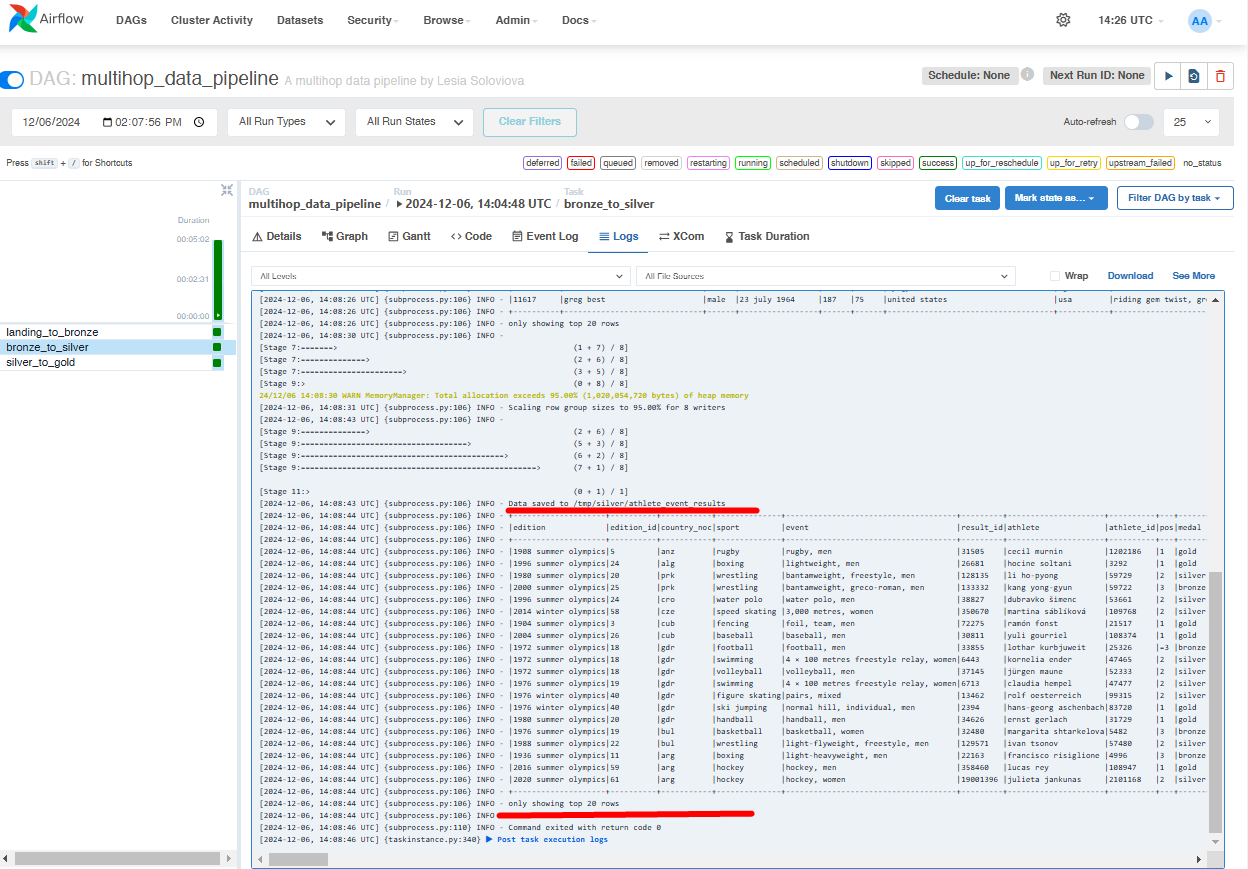
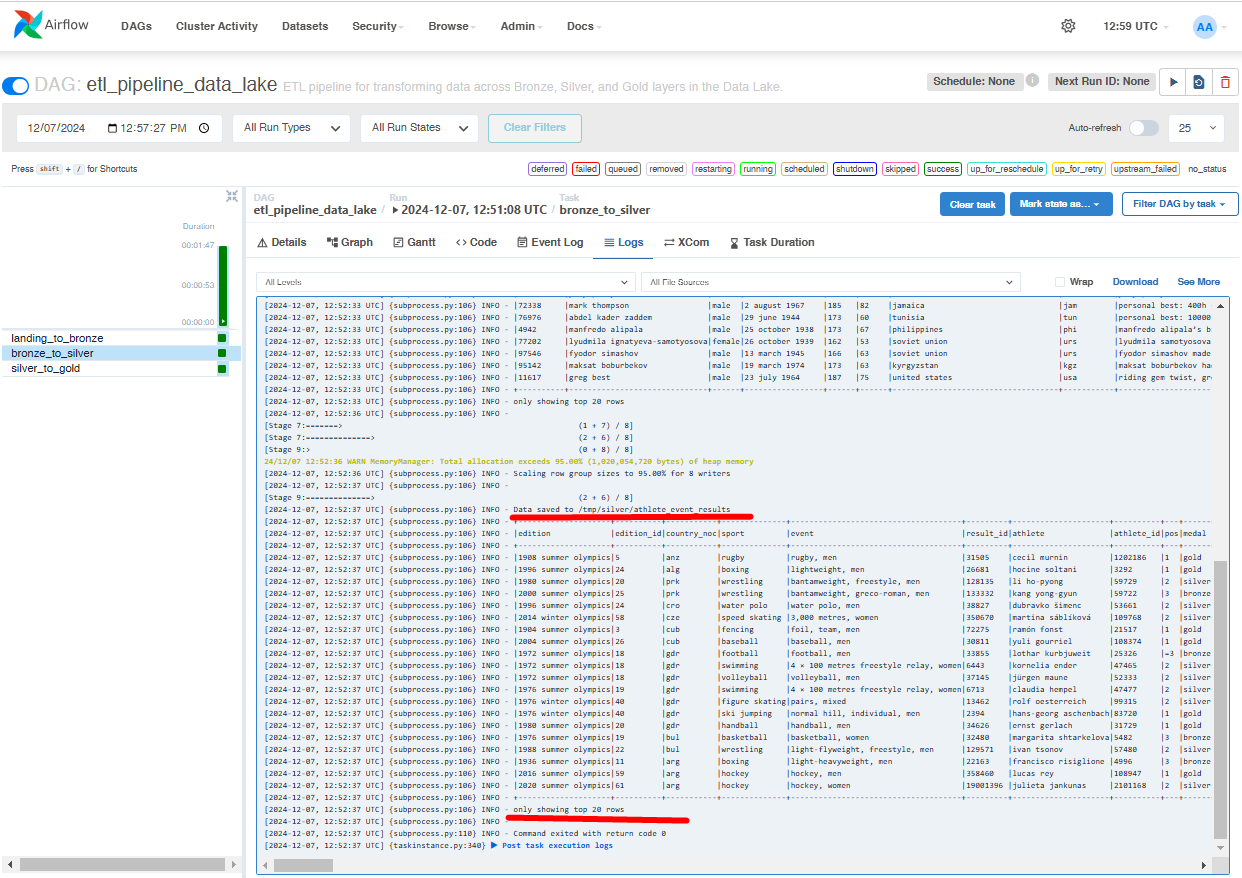
add comments and description to the task 2 and add TASK RESULTS into README.md

Changed region(s): [[0.0, 0.0, 1.0, 1.0], [0.0, 0.1864, 0.1224, 0.2175]]

diff --git a/dags/project_solution.py b/dags/project_solution.py
@@ -6,40 +6,63 @@ import os
 # Визначення базового шляху до проекту (вказано в docker-compose.yaml)
 BASE_PATH = os.getenv('BASE_PATH', '/opt/airflow/dags')
 
-# Визначення DAG
+# Опис DAG (Directed Acyclic Graph)
+"""
+Цей DAG визначає багатоступеневий пайплайн для обробки даних у Data Lake.
+
+Кроки пайплайна:
+1. Landing to Bronze: Завантаження та попередня обробка даних.
+2. Bronze to Silver: Очищення та підготовка даних для аналітики.
+3. Silver to Gold: Агрегація та запис кінцевих даних у форматі Gold Layer.
+
+Використовується:
+- `BashOperator` для виконання Python-скриптів на кожному етапі.
+
+"""
+
+# Визначення базових аргументів для DAG
 default_args = {
-    'owner': 'airflow',
-    'start_date': days_ago(1),
+    'owner': 'airflow',  # Власник DAG
+    'start_date': days_ago(1),  # Початок роботи DAG (вчора для зручності тестування)
 }
 
+# Ініціалізація DAG
 dag = DAG(
-    'multihop_data_pipeline',
-    default_args=default_args,
-    description='End-to-End Batch Data Lake by Lesia Soloviova',
-    schedule_interval=None,
-    tags=['lesia_soloviova'],
+    'etl_pipeline_data_lake',  # Ідентифікатор DAG
+    default_args=default_args,  # Базові аргументи
+    description='ETL pipeline for transforming data across Bronze, Silver, and Gold layers in the Data Lake.',  # Опис
+    schedule_interval=None,  # DAG запускається вручну (немає розкладу)
+    tags=['lesia_soloviova'],  # Теги для пошуку
 )
 
 # Завдання для запуску landing_to_bronze.py
 landing_to_bronze = BashOperator(
-    task_id='landing_to_bronze',
-    bash_command=f'python {BASE_PATH}/landing_to_bronze.py',
-    dag=dag,
+    task_id='landing_to_bronze',  # Унікальний ідентифікатор завдання
+    bash_command=f'python {BASE_PATH}/landing_to_bronze.py',  # Команда Bash для виконання
+    dag=dag,  # DAG, до якого належить завдання
 )
 
 # Завдання для запуску bronze_to_silver.py
 bronze_to_silver = BashOperator(
-    task_id='bronze_to_silver',
-    bash_command=f'python {BASE_PATH}/bronze_to_silver.py',
-    dag=dag,
+    task_id='bronze_to_silver',  # Унікальний ідентифікатор завдання
+    bash_command=f'python {BASE_PATH}/bronze_to_silver.py',  # Команда Bash для виконання
+    dag=dag,  # DAG, до якого належить завдання
 )
 
 # Завдання для запуску silver_to_gold.py
 silver_to_gold = BashOperator(
-    task_id='silver_to_gold',
-    bash_command=f'python {BASE_PATH}/silver_to_gold.py',
-    dag=dag,
+    task_id='silver_to_gold',  # Унікальний ідентифікатор завдання
+    bash_command=f'python {BASE_PATH}/silver_to_gold.py',  # Команда Bash для виконання
+    dag=dag,  # DAG, до якого належить завдання
 )
 
-# Визначення послідовності завдань
+# Визначення послідовності виконання завдань
+"""
+landing_to_bronze >> bronze_to_silver >> silver_to_gold
+
+Цей порядок визначає, що:
+1. Спочатку виконується `landing_to_bronze` (завантаження даних у Bronze Layer).
+2. Після цього виконується `bronze_to_silver` (очищення даних у Silver Layer).
+3. Завершальним етапом є `silver_to_gold` (агрегація даних у Gold Layer).
+"""
 landing_to_bronze >> bronze_to_silver >> silver_to_gold

diff --git a/dags/landing_to_bronze.py b/dags/landing_to_bronze.py
@@ -4,37 +4,64 @@ import requests
 
 
 def download_data(file):
+    """
+    Завантажує CSV-файл із вказаного URL-адресу та зберігає його локально.
+
+    Ця функція формує URL-адресу для завантаження файлу, виконує HTTP-запит,
+    і якщо запит успішний (код 200), зберігає файл у поточній директорії.
+
+    Параметри:
+    file (str): Назва файлу без розширення, який потрібно завантажити.
+
+    Повертає:
+    None: Функція зберігає файл локально і не повертає жодного значення.
+
+    Вихід:
+    Якщо завантаження неуспішне, функція завершує виконання з повідомленням про помилку.
+    """
     url = "https://ftp.goit.study/neoversity/"
     downloading_url = url + file + ".csv"
-    print(f"Downloading from {downloading_url}")
-    response = requests.get(downloading_url)
+    print(f"Downloading from {downloading_url}")  # Виведення повідомлення про URL-адресу завантаження
+    response = requests.get(downloading_url)  # Виконання HTTP-запиту
 
-    if response.status_code == 200:
-        with open(file + ".csv", 'wb') as file:
-            file.write(response.content)
-        print(f"File downloaded successfully and saved as {file}")
+    if response.status_code == 200:  # Перевірка успішності запиту
+        with open(file + ".csv", 'wb') as file:  # Відкриття файлу для запису у двійковому режимі
+            file.write(response.content)  # Запис контенту у файл
+        print(f"File downloaded successfully and saved as {file}")  # Повідомлення про успішне завантаження
     else:
-        exit(f"Failed to download the file. Status code: {response.status_code}")
+        exit(f"Failed to download the file. Status code: {response.status_code}")  # Завершення програми у разі помилки
 
 
+# Створення сесії Spark для обробки даних
 spark = SparkSession.builder \
     .appName("LandingToBronze") \
     .getOrCreate()
 
+# Список таблиць, які необхідно обробити
 tables = ["athlete_bio", "athlete_event_results"]
 
+# Обробка кожної таблиці
 for table in tables:
+    # Формуємо локальний шлях для збереження CSV-файлу
     local_path = f"{table}.csv"
+    # Завантаження файлу з сервера
     download_data(table)
 
+    # Читання CSV-файлу у DataFrame Spark
     df = spark.read.csv(local_path, header=True, inferSchema=True)
 
+    # Створення директорії для збереження parquet-файлів
     output_path = f"/tmp/bronze/{table}"
-    os.makedirs(output_path, exist_ok=True)
+    os.makedirs(output_path, exist_ok=True)  # Переконуємось, що директорія існує
+    # Запис DataFrame у форматі parquet з режимом "overwrite"
     df.write.mode("overwrite").parquet(output_path)
 
+    # Повідомлення про успішне збереження
     print(f"Data saved to {output_path}")
-    df = spark.read.parquet(output_path)
-    df.show(truncate=False)
 
+    # Повторне читання parquet-файлу для перевірки даних
+    df = spark.read.parquet(output_path)
+    df.show(truncate=False)  # Виведення вмісту DataFrame без обрізання рядків
+
+# Завершення роботи Spark-сесії
 spark.stop()

diff --git a/dags/bronze_to_silver.py b/dags/bronze_to_silver.py
@@ -3,32 +3,58 @@ from pyspark.sql.functions import col, trim, lower
 from pyspark.sql.types import StringType
 import os
 
+# Створюємо сесію Spark з назвою "BronzeToSilver".
 spark = SparkSession.builder \
     .appName("BronzeToSilver") \
     .getOrCreate()
 
-
 def clean_text(df):
+    """
+    Очищає текстові дані у всіх колонках DataFrame.
+
+    Ця функція перевіряє тип кожної колонки у DataFrame. Якщо тип колонки є StringType,
+    то значення у цій колонці будуть очищені шляхом:
+    - Обрізання зайвих пробілів з початку і кінця рядка.
+    - Переведення тексту у нижній регістр.
+
+    Параметри:
+    df (pyspark.sql.DataFrame): Вхідний DataFrame для очищення.
+
+    Повертає:
+    pyspark.sql.DataFrame: DataFrame з очищеними текстовими колонками.
+
+    """
     for column in df.columns:
-        if df.schema[column].dataType == StringType():
-            df = df.withColumn(column, trim(lower(col(column))))
+        if df.schema[column].dataType == StringType():  # Перевірка, чи тип даних - StringType
+            df = df.withColumn(column, trim(lower(col(column))))  # Очищення та нормалізація тексту
     return df
 
-
+# Список таблиць, які потрібно обробити (bronze-таблиці).
 tables = ["athlete_bio", "athlete_event_results"]
 
+# Ітерація по кожній таблиці з метою очищення і збереження у silver-шар.
 for table in tables:
+    # Читання parquet-файлів із bronze-шару для поточної таблиці.
     df = spark.read.parquet(f"/tmp/bronze/{table}")
 
+    # Очищення тексту за допомогою функції `clean_text`.
     df = clean_text(df)
+    # Видалення дублікатів у DataFrame.
     df = df.dropDuplicates()
 
+    # Створення шляху для збереження оброблених даних у silver-шар.
     output_path = f"/tmp/silver/{table}"
-    os.makedirs(output_path, exist_ok=True)
+    os.makedirs(output_path, exist_ok=True)  # Переконуємося, що папка існує
+
+    # Запис оброблених даних у parquet-файл у silver-шар із режимом "overwrite".
     df.write.mode("overwrite").parquet(output_path)
 
+    # Виведення повідомлення про успішне збереження оброблених даних.
     print(f"Data saved to {output_path}")
-    df = spark.read.parquet(output_path)
-    df.show(truncate=False)
 
+    # Повторне читання збережених даних для перевірки та їх відображення.
+    df = spark.read.parquet(output_path)
+    df.show(truncate=False)  # Відображення вмісту DataFrame без обрізання тексту
+
+# Завершення роботи Spark-сесії.
 spark.stop()

diff --git a/dags/silver_to_gold.py b/dags/silver_to_gold.py
@@ -2,33 +2,42 @@ from pyspark.sql import SparkSession
 from pyspark.sql.functions import avg, current_timestamp
 import os
 
-
+# Створення сесії Spark для обробки даних
 spark = SparkSession.builder \
     .appName("SilverToGold") \
     .getOrCreate()
 
+# Завантаження таблиць із silver-шару
 athlete_bio_df = spark.read.parquet("/tmp/silver/athlete_bio")
 athlete_event_results_df = spark.read.parquet("/tmp/silver/athlete_event_results")
 
-# Перейменування колонок для уникнення неоднозначності
+# Перейменування колонок для уникнення неоднозначності при об'єднанні
 athlete_bio_df = athlete_bio_df.withColumnRenamed("country_noc", "bio_country_noc")
-# Об'єднання таблиць за колонкою athlete_id
+
+# Об'єднання таблиць за колонкою "athlete_id"
 joined_df = athlete_event_results_df.join(athlete_bio_df, "athlete_id")
 
-# Обчислення середніх значень
+# Обчислення середніх значень для кожної групи
 aggregated_df = joined_df.groupBy("sport", "medal", "sex", "country_noc") \
     .agg(
-        avg("height").alias("avg_height"),
-        avg("weight").alias("avg_weight"),
-        current_timestamp().alias("timestamp")
+        avg("height").alias("avg_height"),  # Середній зріст
+        avg("weight").alias("avg_weight"),  # Середня вага
+        current_timestamp().alias("timestamp")  # Час виконання агрегації
     )
 
+# Створення директорії для збереження результатів у gold-шар
 output_path = "/tmp/gold/avg_stats"
-os.makedirs(output_path, exist_ok=True)
+os.makedirs(output_path, exist_ok=True)  # Переконуємося, що директорія існує
+
+# Збереження оброблених даних у форматі parquet
 aggregated_df.write.mode("overwrite").parquet(output_path)
 
+# Виведення повідомлення про успішне збереження
 print(f"Data saved to {output_path}")
-df = spark.read.parquet(output_path)
-df.show(truncate=False)
 
+# Повторне читання parquet-файлу для перевірки даних
+df = spark.read.parquet(output_path)
+df.show(truncate=False)  # Виведення вмісту DataFrame без обрізання рядків
+
+# Завершення роботи Spark-сесії
 spark.stop()

diff --git a/README.md b/README.md
@@ -38,16 +38,6 @@ The company wants to adjust betting odds as quickly as possible, so you are task
 - The code must include comments marking where each task step is implemented, e.g., `# Step 6.a): Writing to output Kafka topic`.
 ☝🏻 Acceptance criteria for the final project are mandatory for mentor evaluation. If any criteria are not met, the mentor will return the task for revision without evaluation. If you need clarification or are stuck, contact your mentor in Slack.
 
-**Maximum score: 50 points**
-- Step 1: 10 points
-- Step 2: 5 points
-- Step 3: 10 points
-- Step 4: 5 points
-- Step 5: 5 points
-- Step 6: 15 points (7 for streaming to the output Kafka topic and 8 for the database).
-
-Mistakes or shortcomings will proportionally reduce points at each step as determined by the mentor.
-
 ---
 
 ## Part 2: Building an End-to-End Batch Data Lake
@@ -120,3 +110,32 @@ Take one screenshot of the output for any table for each Spark job. You should h
 3. Create a single archive containing all the code files and a text document with screenshots, then attach it to the LMS. The archive name should follow the format `FP_LastName`.
 
 4. Attach the link to the `goit-de-fp` repository and submit it for review.
+
+---
+
+# TASK RESULTS
+
+## Part 1 | Building an End-to-End Streaming Pipeline 
+### - Запис даних у таблицю MySQL lesia-soloviova_enriched_athlete_avg
+![Data written in the table](assets/task_1_2.png)
+
+### - Запис даних у Kafka-топік lesia-soloviova_enriched_athlete_avg
+![Data written in the Kafka-topic](assets/task_1_1.png)
+
+## Part 2 | Building an Batch Data Lake
+
+### - Запис даних у таблицю bronze/athlete_event_results
+
+![Data_saved_in_the_bronze_athlete_event_results](assets/task_2_1.png)
+
+### - Запис даних у таблицю silver/athlete_event_results
+
+![Data_saved_in_the_silver_athlete_event_results](assets/task_2_2.png)
+
+### - Запис даних у таблицю gold/avg_stats
+
+![Data_saved_in_the_gold_avg_stats](assets/task_2_3.png)
+
+### - DAG з трьома відпрацьованими завданнями
+
+![Data_saved_in_the_gold_avg_stats](assets/task_2_4.png)
